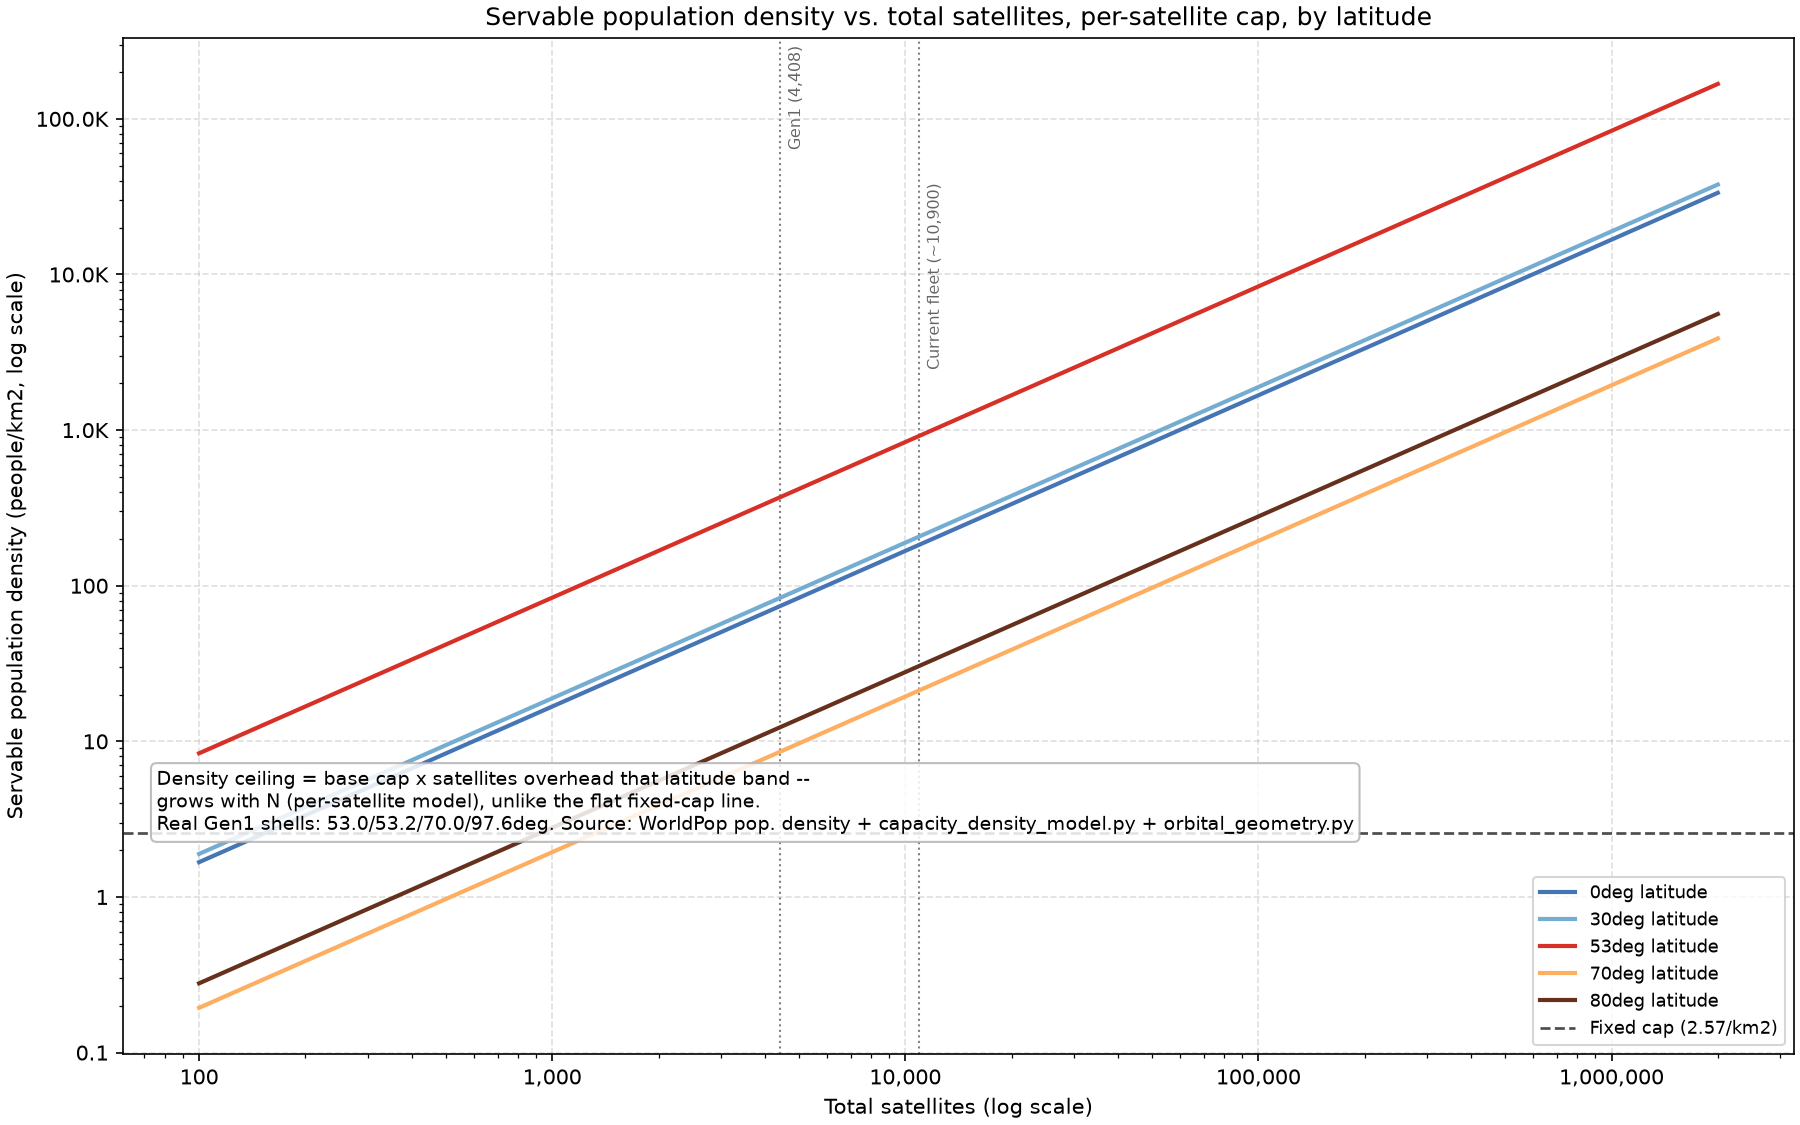
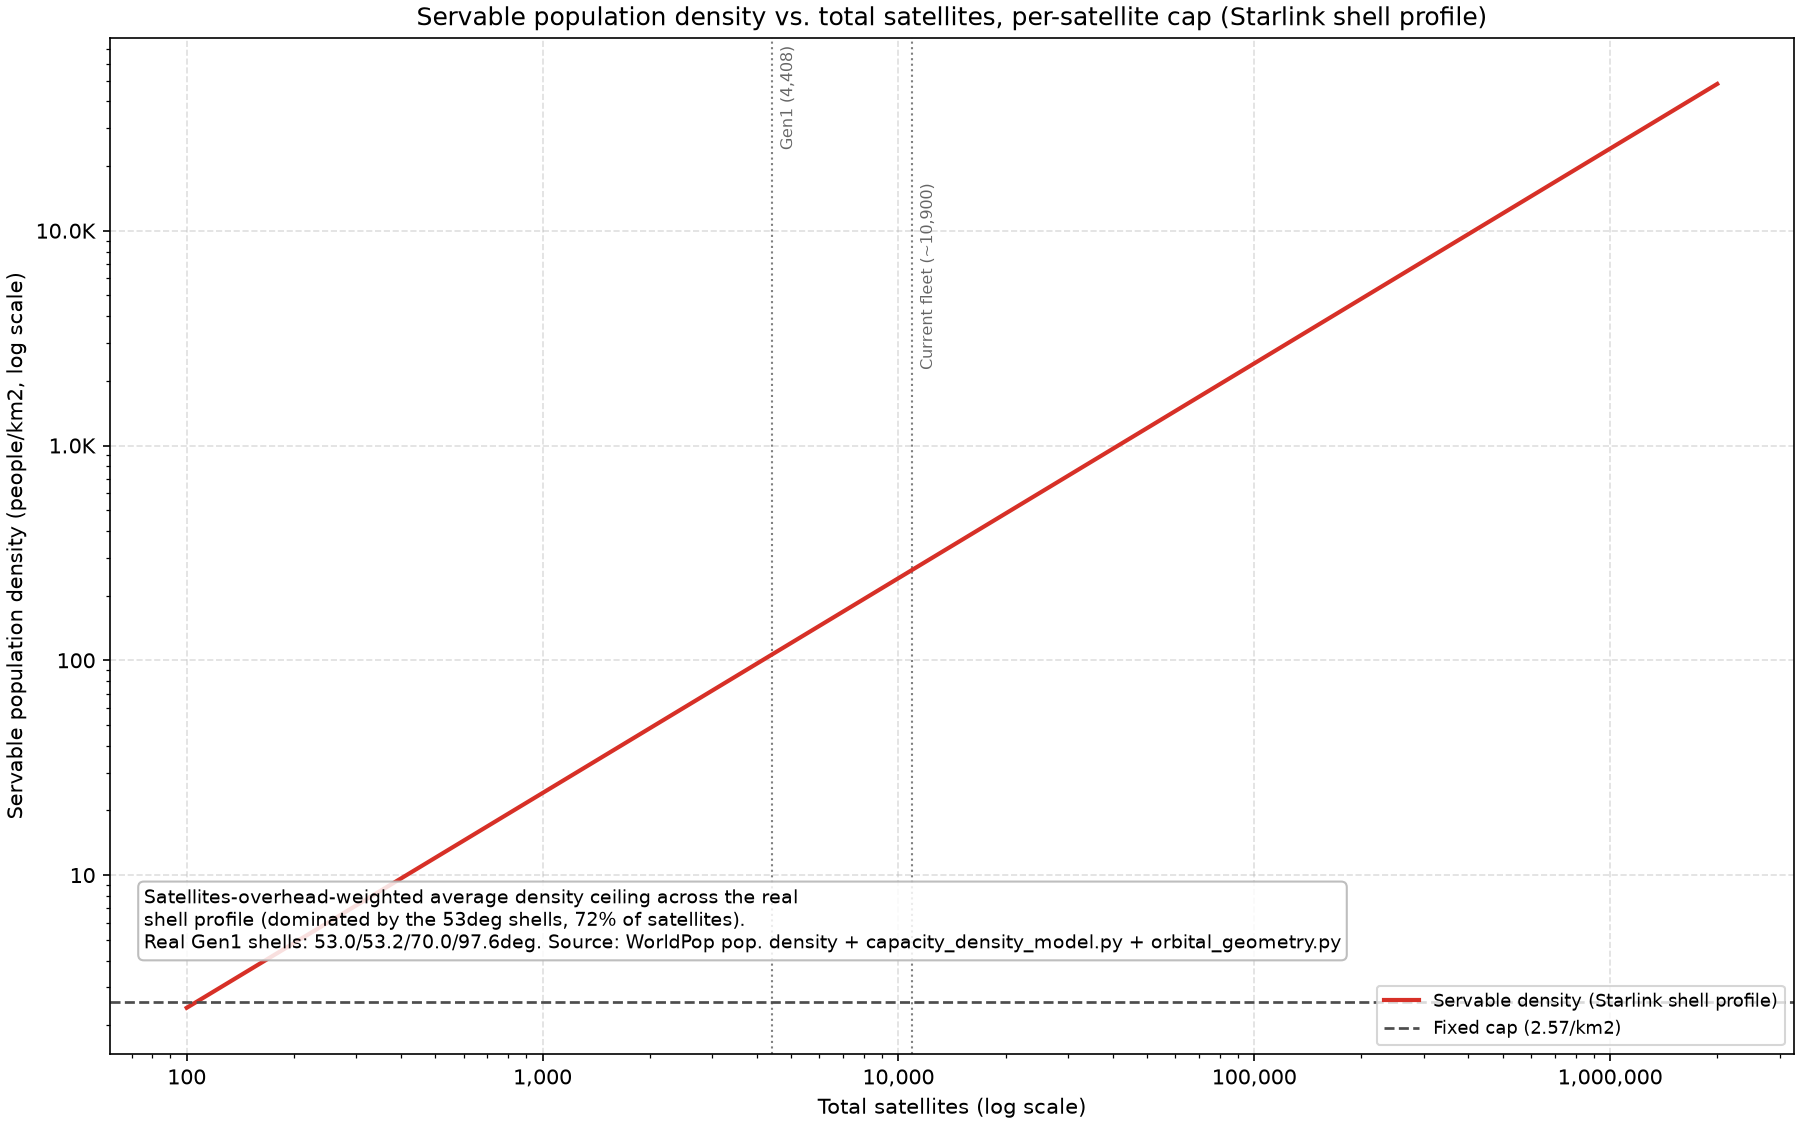
Collapse servable-density chart to one Starlink-profile curve
Replace the 5-representative-latitude breakout with a single
satellites-overhead-weighted average across all covered latitude
bands -- reflects the real shell profile's actual satellite
distribution (weighted toward the 53deg shells) rather than 5
arbitrary sampled cuts through it.

Removes effective_density_cap_at_latitudes(), the per-latitude
sampling helper the old version used, now unused.

Claude-Session: https://claude.ai/code/session_01WVkrf99iibSkGfTVhZikzJ

diff --git a/starlink-equilibrium-model/charts/serviceable_customers_per_satellite_chart.py b/starlink-equilibrium-model/charts/serviceable_customers_per_satellite_chart.py
@@ -41,12 +41,6 @@ US_100M_DENSITY_HIST_CACHE = pdg.WORLDPOP_DIR / "_us_100m_density_area_hist.npz"
 
 CAP_NOTE = "Dashed = fixed cap. Solid = cap scales per satellite.\n" + SHELL_RATIO_NOTE + ". " + SOURCE_NOTE
 
-# Representative latitudes for the density-vs-N chart: 53deg is where Starlink's real
-# Gen1 shells concentrate (72% of satellites, see CLAUDE.md), 70/80deg are progressively
-# thinner coverage, 0/30deg are far from any shell's turning point (low time-density).
-DENSITY_REFERENCE_LATITUDES = (0.0, 30.0, 53.0, 70.0, 80.0)
-DENSITY_LAT_COLORS = ("#4575b4", "#74add1", "#d73027", "#fdae61", "#66301c")
-
 
 def _density_formatter(x, _pos):
     if x <= 0:
@@ -211,17 +205,16 @@ def fig_serviceable_vs_satellites_us_per_satellite_cap_linear(us_grid_1km: pdg.P
 
 
 # --------------------------------------------------------------------------------------
-# Chart 3: servable population DENSITY (not customer count) vs. total satellites,
-# per-satellite cap, at a few representative latitudes
+# Chart 3: servable population DENSITY (not customer count) vs. total satellites --
+# ONE curve for the real Starlink shell profile (satellites-overhead-weighted average
+# across all covered latitudes), not a per-latitude breakout.
 # --------------------------------------------------------------------------------------
-def fig_servable_density_vs_satellites(latitudes_deg=DENSITY_REFERENCE_LATITUDES):
+def fig_servable_density_vs_satellites():
     sat_counts = np.geomspace(100, 2_000_000, 40)
-    caps = np.array([scm.effective_density_cap_at_latitudes(n, latitudes_deg) for n in sat_counts])
+    caps = np.array([scm.effective_density_cap_profile_average(n) for n in sat_counts])
 
     fig, ax = render.new_figure(figsize=(12, 7.5))
-    for i, lat in enumerate(latitudes_deg):
-        color = DENSITY_LAT_COLORS[i % len(DENSITY_LAT_COLORS)]
-        ax.plot(sat_counts, caps[:, i], color=color, linewidth=2, label=f"{lat:.0f}deg latitude")
+    ax.plot(sat_counts, caps, color="#d73027", linewidth=2, label="Servable density (Starlink shell profile)")
 
     base_cap = cdm.max_customer_density_per_km2(cdm.V2_MINI_BEAD_SCENARIO)
     ax.axhline(base_cap, color="0.3", linestyle="--", linewidth=1.3,
@@ -232,7 +225,7 @@ def fig_servable_density_vs_satellites(latitudes_deg=DENSITY_REFERENCE_LATITUDES
     ax.set_yscale("log")
     ax.set_xlabel("Total satellites (log scale)")
     ax.set_ylabel("Servable population density (people/km2, log scale)")
-    ax.set_title("Servable population density vs. total satellites, per-satellite cap, by latitude")
+    ax.set_title("Servable population density vs. total satellites, per-satellite cap (Starlink shell profile)")
     ax.xaxis.set_major_formatter(mticker.FuncFormatter(lambda v, _: f"{v:,.0f}"))
     ax.yaxis.set_major_formatter(mticker.FuncFormatter(_density_formatter))
     ax.yaxis.set_minor_formatter(mticker.NullFormatter())
@@ -240,8 +233,8 @@ def fig_servable_density_vs_satellites(latitudes_deg=DENSITY_REFERENCE_LATITUDES
 
     info_box.add_info_box(
         ax, fig,
-        "Density ceiling = base cap x satellites overhead that latitude band --\n"
-        "grows with N (per-satellite model), unlike the flat fixed-cap line.\n"
+        "Satellites-overhead-weighted average density ceiling across the real\n"
+        "shell profile (dominated by the 53deg shells, 72% of satellites).\n"
         + SHELL_RATIO_NOTE + ". " + SOURCE_NOTE,
         mode="on",
     )

diff --git a/starlink-equilibrium-model/serviceable_customers_model.py b/starlink-equilibrium-model/serviceable_customers_model.py
@@ -120,17 +120,25 @@ def effective_density_cap_by_latitude(total_sats: float, scenario: cdm.CapacityS
     return centers, np.where(covered, base_cap * sats_overhead, 0.0)
 
 
-def effective_density_cap_at_latitudes(total_sats: float, latitudes_deg,
-                                        scenario: cdm.CapacityScenario = cdm.V2_MINI_BEAD_SCENARIO,
-                                        base_shells: list[og.Shell] | None = None,
-                                        bin_width_deg: float = BIN_WIDTH_DEG) -> np.ndarray:
-    """effective_density_cap_by_latitude(), sampled at specific latitudes (nearest
-    bin) -- for a chart plotting the density ceiling at a few representative
-    latitudes as a function of N, rather than the full per-latitude-band array."""
-    centers, cap_by_lat = effective_density_cap_by_latitude(total_sats, scenario, base_shells, bin_width_deg)
-    idx = np.clip(np.round((np.asarray(latitudes_deg, dtype=float) - centers[0]) / bin_width_deg).astype(int),
-                  0, len(centers) - 1)
-    return cap_by_lat[idx]
+def effective_density_cap_profile_average(total_sats: float,
+                                           scenario: cdm.CapacityScenario = cdm.V2_MINI_BEAD_SCENARIO,
+                                           base_shells: list[og.Shell] | None = None,
+                                           bin_width_deg: float = BIN_WIDTH_DEG) -> float:
+    """A single number summarizing effective_density_cap_by_latitude() across the
+    WHOLE real shell profile, instead of picking a few representative latitudes:
+    the satellites-overhead-WEIGHTED average density ceiling. Weighting by
+    sats_overhead (not a plain average across latitude bins) means this reflects
+    where the real constellation actually puts its satellites -- dominated by the
+    53deg shells (72% of Gen1), pulled down somewhat by the thinner 70/97.6deg
+    coverage -- "the effective ceiling a typical satellite in this constellation
+    supports," not an arbitrary single-latitude cut."""
+    centers, sats_overhead = sats_overhead_by_latitude(total_sats, base_shells, bin_width_deg)
+    base_cap = cdm.max_customer_density_per_km2(scenario)
+    covered = np.abs(centers) <= max_latitude_covered(base_shells)
+    cap_by_lat = np.where(covered, base_cap * sats_overhead, 0.0)
+    weight = np.where(covered, sats_overhead, 0.0)
+    total_weight = weight.sum()
+    return float((cap_by_lat * weight).sum() / total_weight) if total_weight > 0 else 0.0
 
 
 def _lat_bin_edges(bin_width_deg: float):

diff --git a/starlink-equilibrium-model/CLAUDE.md b/starlink-equilibrium-model/CLAUDE.md
@@ -1499,17 +1499,21 @@ than the full per-band array at one N.
 
 **New chart**: `charts/serviceable_customers_per_satellite_chart.py` gained a third
 figure, `fig_servable_density_vs_satellites()` -> `results/population/servable_density_vs_satellites.png`.
-5 representative latitudes (0/30/53/70/80deg), log-log, plus the flat fixed-cap
-value (2.57/km2) as a dashed reference line. **Real finding, directly visible**: the
-53deg line (where Starlink's real Gen1 shells concentrate 72% of satellites) crosses
-the fixed-cap reference line far earlier than any other latitude -- already ~369/km2
-at just Gen1's 4,408 satellites, ~150x the fixed cap, while 70deg/80deg are still
-BELOW the fixed cap at that same N (8.6 and 12.3/km2 respectively, vs. 2.57).
-Directly shows WHY the per-satellite model's aggregate ceiling can climb so much
-higher than the fixed model's: the real constellation's shell concentration means
-the density ceiling loosens dramatically faster at the latitudes with the most real
-population (temperate, ~30-55deg) than at the sparse near-polar latitudes.
 
-Also re-sent (not regenerated -- unchanged since Phase/session that built them)
+Also re-sent (not regenerated -- unchanged since the Phase/session that built them)
 `population_vs_density_histogram_global.png` and `_us.png`
 (`charts/population_stats.py`) per the user's request to see them again.
+
+**Revised same day, right after shipping**: first version plotted 5 representative
+latitudes (0/30/53/70/80deg) as separate lines. User: **"don't make it a series of
+latitudes, just use one for the Starlink profile."** Correct call -- an arbitrary
+5-latitude sample isn't "the Starlink profile," it's 5 disconnected cuts through it.
+Replaced with `effective_density_cap_profile_average()`: a single
+satellites-overhead-WEIGHTED average across ALL covered latitude bands (weight =
+`sats_overhead(lat, N)`, the same quantity the constellation actually distributes
+satellites by) -- "the effective ceiling a typical satellite in this real
+constellation supports," collapsing the whole shell profile into one honest number
+instead of 5 arbitrary ones. `effective_density_cap_at_latitudes()` (the sampling
+helper the first version used) was deleted along with it -- no longer had a caller,
+and per this project's "no dead code" convention, an unused sampling helper doesn't
+get kept around "in case it's useful later."
